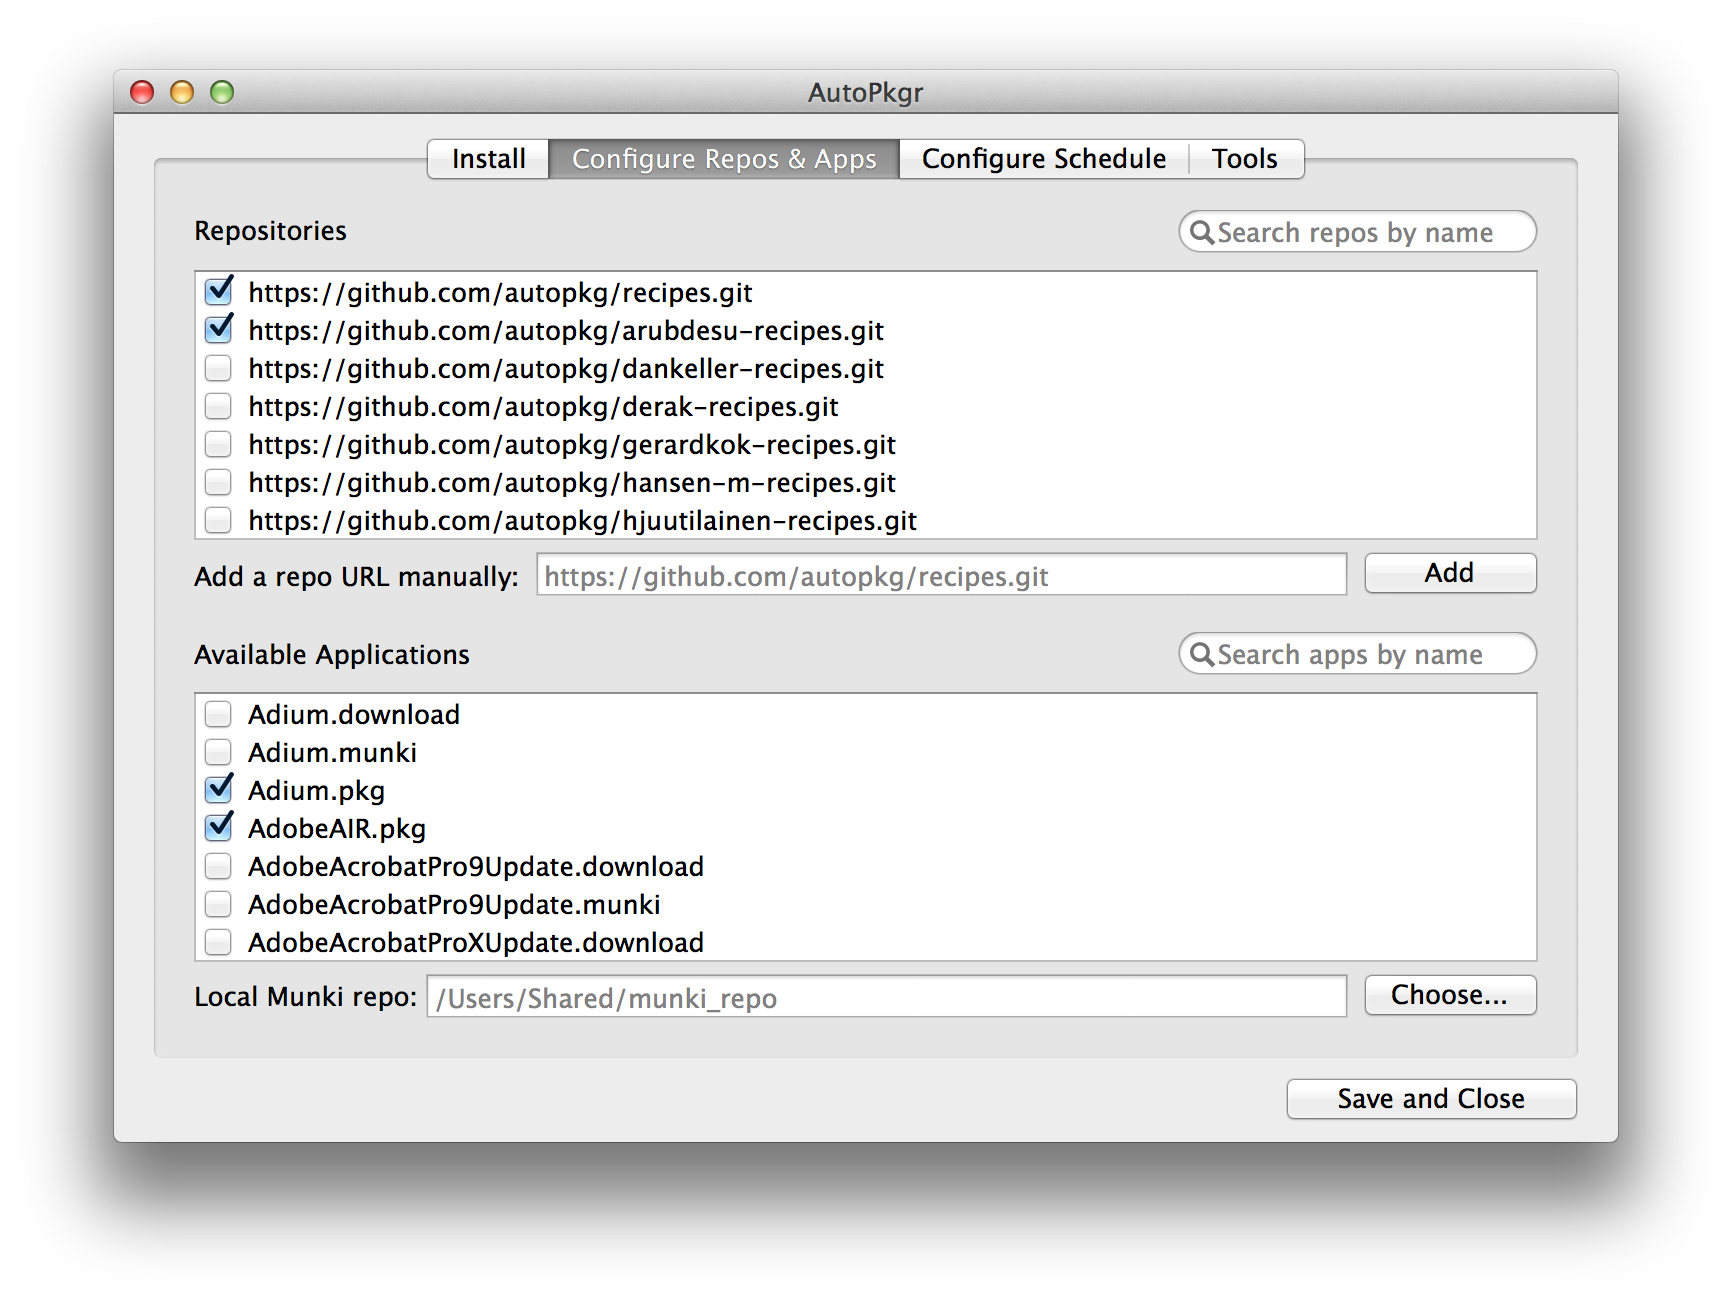
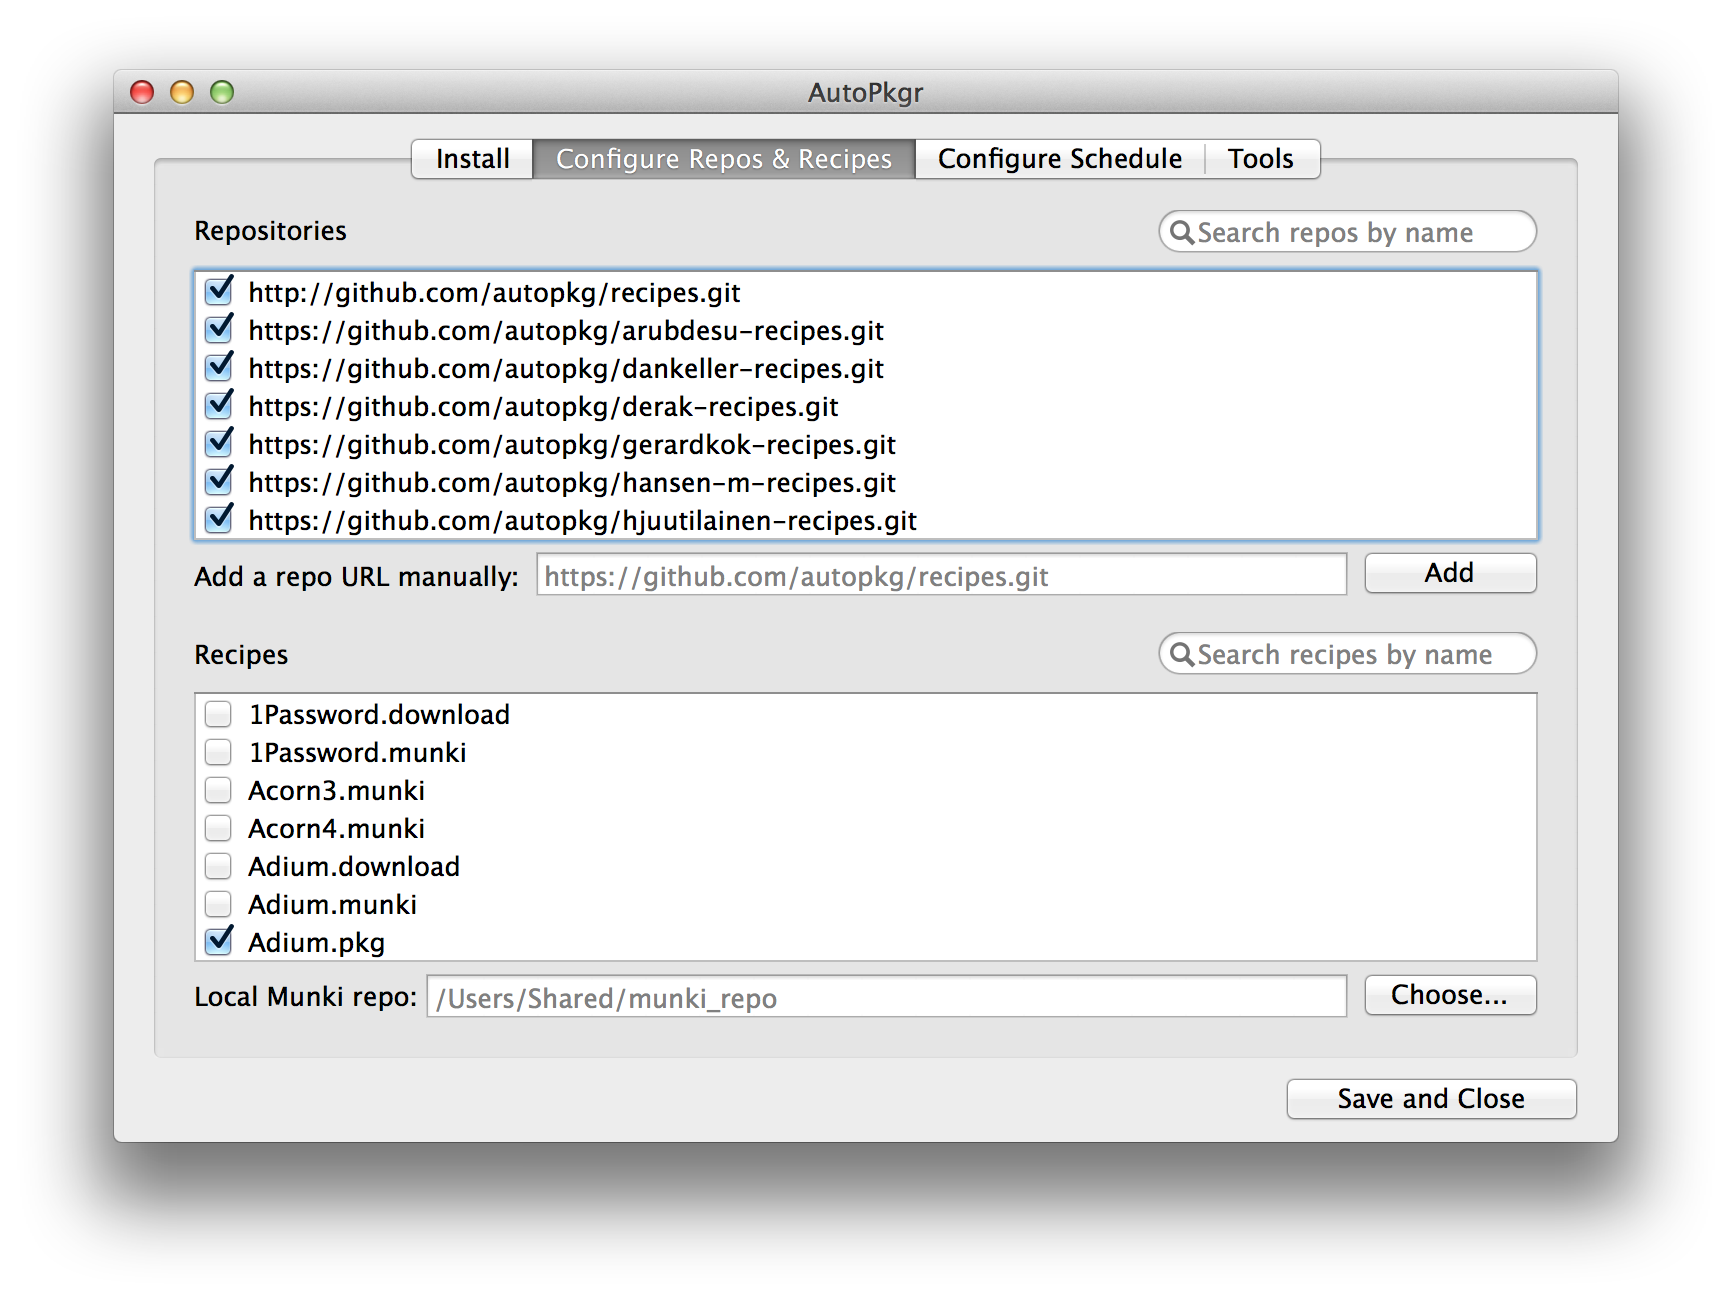
Replaced "apps" with "recipes" in several places.
Also fixed several typos and omissions in the readme.

diff --git a/README.html b/README.html
@@ -277,12 +277,13 @@ table.codehilitetable td.code div pre {
 <p>AutoPkgr is an app that makes it easy to install and configure <a href="https://github.com/autopkg/autopkg">AutoPkg</a>.</p>
 <p>AutoPkg is an awesomely powerful tool for automating OS X software packaging and distribution, but it requires its users to be comfortable with command-line tools and methods.</p>
 <p>If you&rsquo;re not comfortable with the command-line, or if you just want to get AutoPkg set up from scratch quickly, AutoPkgr is for you.</p>
+<h2 id="features"><a name="user-content-features" href="#features" class="headeranchor-link"  aria-hidden="true"><span class="headeranchor"></span></a>Features</h2>
 <p>Here are the tasks that AutoPkgr makes easier:</p>
 <ul>
 <li>Installation of AutoPkg itself.</li>
 <li>Installation of Git, which AutoPkg requires.</li>
-<li>Discovery and subscription to popular AutoPkg recipe repositories.</li>
-<li>Configuration of AutoPkg with a local <a href="https://code.google.com/p/munki/">Munki</a> repo.</li>
+<li>Discovery of and subscription to popular AutoPkg recipe repositories.</li>
+<li>Configuration of AutoPkg to use a local <a href="https://code.google.com/p/munki/">Munki</a> repo.</li>
 </ul>
 <p>AutoPkgr also lets you do all of the following, which wouldn&rsquo;t be possible using AutoPkg alone:</p>
 <ul>
@@ -292,28 +293,55 @@ table.codehilitetable td.code div pre {
 <li>One-click access to common folders that Munki and AutoPkg admins need.</li>
 </ul>
 <h2 id="installation"><a name="user-content-installation" href="#installation" class="headeranchor-link"  aria-hidden="true"><span class="headeranchor"></span></a>Installation</h2>
+<p>AutoPkgr requires Mac OS X 10.8 or higher.</p>
 <p>Download the <a href="https://github.com/lindegroup/autopkgr/releases/latest">latest release</a>, and drag the AutoPkgr app to your Applications folder. Then launch it.</p>
 <h2 id="usage"><a name="user-content-usage" href="#usage" class="headeranchor-link"  aria-hidden="true"><span class="headeranchor"></span></a>Usage</h2>
 <ol>
-<li>Launch the AutoPkgr app.</li>
-<li>On first launch, you&rsquo;ll see the configuration window:<br />
-<img alt="AutoPkgr Install" src="/Users/elliot/Documents/GitHub Repositories/autopkgr/doc-images/config_tab1.png" /></li>
-<li>Click the button to <strong>Install Git</strong> if needed.</li>
-<li>Click the button to <strong>Install AutoPkg</strong> if needed.</li>
-<li>Switch to the <strong>Configure Repos &amp; Apps</strong> tab and select the repositories you&rsquo;d like to subscribe to. We recommend the first one, to get you started.<br />
-<img alt="Configure Repos &amp; Apps" src="/Users/elliot/Documents/GitHub Repositories/autopkgr/doc-images/config_tab2.png" /></li>
-<li>Select the apps you&rsquo;d like to watch.</li>
-<li>If you&rsquo;re importing the apps into a Munki repo, put the repo path in the <strong>Local Munki Repo</strong> box.</li>
-<li>Switch to the <strong>Configure Schedule</strong> tab. Set your automatic update checking preferences — we recommend checking at least once per day, and checking for repo updates when AutoPkgr starts.<br />
-<img alt="Configure Schedule" src="/Users/elliot/Documents/GitHub Repositories/autopkgr/doc-images/config_tab3.png" /></li>
-<li>Configure email notifications, if desired.</li>
-<li>Click Save and Close.</li>
+<li>
+<p>Launch the AutoPkgr app.</p>
+</li>
+<li>
+<p>On first launch, you&rsquo;ll see the configuration window:<br />
+<img alt="AutoPkgr Install" src="/Users/elliot/Documents/GitHub/autopkgr/doc-images/config_tab1.png" /></p>
+</li>
+<li>
+<p>Click the button to <strong>Install Git</strong> if needed.</p>
+</li>
+<li>
+<p>Click the button to <strong>Install AutoPkg</strong> if needed.</p>
+</li>
+<li>
+<p>Switch to the <strong>Configure Repos &amp; Recipes</strong> tab.<br />
+<img alt="Configure Repos &amp; Recipes" src="/Users/elliot/Documents/GitHub/autopkgr/doc-images/config_tab2.png" /></p>
+</li>
+<li>
+<p>Select the repositories you&rsquo;d like to subscribe to. We recommend the first one, to get you started. You can also add repositories manually by pasting their URL into the text field and clicking Add.</p>
+</li>
+<li>
+<p>Select the recipes you&rsquo;d like to watch for changes.</p>
+</li>
+<li>
+<p>If you&rsquo;re importing the apps into a Munki repo, put the repo path in the <strong>Local Munki Repo</strong> box.</p>
+</li>
+<li>
+<p>Switch to the <strong>Configure Schedule</strong> tab.<br />
+<img alt="Configure Schedule" src="/Users/elliot/Documents/GitHub/autopkgr/doc-images/config_tab3.png" /></p>
+</li>
+<li>
+<p>Set your automatic update checking preferences — we recommend checking at least once per day, and checking for repo updates when AutoPkgr starts.</p>
+</li>
+<li>
+<p>Configure email notifications, if desired.</p>
+</li>
+<li>
+<p>Click <strong>Save and Close</strong>.</p>
+</li>
 </ol>
 <p>That&rsquo;s it! AutoPkgr will now check for the latest app updates you specified, and when an update is available you&rsquo;ll receive an email notification.</p>
-<p>Anytime you&rsquo;d like to make changes to AutoPkgr&rsquo;s configuration, just click on the AutoPkgr icon in the menu bar (<img alt="Menu bar icon" src="/Users/elliot/Documents/GitHub Repositories/autopkgr/doc-images/menulet.png" />), and choose <strong>Configure&hellip;</strong></p>
+<p>Anytime you&rsquo;d like to make changes to AutoPkgr&rsquo;s configuration, just click on the AutoPkgr icon in the menu bar (<img alt="Menu bar icon" src="/Users/elliot/Documents/GitHub/autopkgr/doc-images/menulet.png" />), and choose <strong>Configure&hellip;</strong></p>
 <p>You&rsquo;ll also find some useful shortcuts on the <strong>Tools</strong> tab, which will take you directly to several convenient folders.<br />
-<img alt="Tools" src="/Users/elliot/Documents/GitHub Repositories/autopkgr/doc-images/config_tab4.png" /></p>
+<img alt="Tools" src="/Users/elliot/Documents/GitHub/autopkgr/doc-images/config_tab4.png" /></p>
 <h2 id="credits"><a name="user-content-credits" href="#credits" class="headeranchor-link"  aria-hidden="true"><span class="headeranchor"></span></a>Credits</h2>
-<p>AutoPkgr was created by James Barclay, Elliot Jordan, Josh Senick of the <a href="http://www.lindegroup.com">Linde Group</a>.</p>
+<p>AutoPkgr was created by James Barclay, Elliot Jordan, and Josh Senick of the <a href="http://www.lindegroup.com">Linde Group</a>.</p>
 <p>We&rsquo;re very friendly. Stop by Berkeley sometime and have an espresso.</p>
 <p>Briefcase icon from <a href="http://fontawesome.io/">FontAwesome</a>.</p></body></html>

diff --git a/README.md b/README.md
@@ -9,12 +9,16 @@ AutoPkg is an awesomely powerful tool for automating OS X software packaging and
 
 If you're not comfortable with the command-line, or if you just want to get AutoPkg set up from scratch quickly, AutoPkgr is for you.
 
+
+Features
+--------
+
 Here are the tasks that AutoPkgr makes easier:
 
 * Installation of AutoPkg itself.
 * Installation of Git, which AutoPkg requires.
-* Discovery and subscription to popular AutoPkg recipe repositories.
-* Configuration of AutoPkg with a local [Munki](https://code.google.com/p/munki/) repo.
+* Discovery of and subscription to popular AutoPkg recipe repositories.
+* Configuration of AutoPkg to use a local [Munki](https://code.google.com/p/munki/) repo.
 
 AutoPkgr also lets you do all of the following, which wouldn't be possible using AutoPkg alone:
 
@@ -27,6 +31,8 @@ AutoPkgr also lets you do all of the following, which wouldn't be possible using
 Installation
 ------------
 
+AutoPkgr requires Mac OS X 10.8 or higher.
+
 Download the [latest release](https://github.com/lindegroup/autopkgr/releases/latest), and drag the AutoPkgr app to your Applications folder. Then launch it.
 
 
@@ -34,18 +40,31 @@ Usage
 -----
 
 1.  Launch the AutoPkgr app.
+
 1.  On first launch, you'll see the configuration window:
     ![AutoPkgr Install](doc-images/config_tab1.png)
+
 1.  Click the button to **Install Git** if needed.
+
 1.  Click the button to **Install AutoPkg** if needed.
-1.  Switch to the **Configure Repos & Apps** tab and select the repositories you'd like to subscribe to. We recommend the first one, to get you started.
-    ![Configure Repos & Apps](doc-images/config_tab2.png)
-1.  Select the apps you'd like to watch.
+
+1.  Switch to the **Configure Repos & Recipes** tab.
+    ![Configure Repos & Recipes](doc-images/config_tab2.png)
+
+1.  Select the repositories you'd like to subscribe to. We recommend the first one, to get you started. You can also add repositories manually by pasting their URL into the text field and clicking Add.
+
+1.  Select the recipes you'd like to watch for changes.
+
 1.  If you're importing the apps into a Munki repo, put the repo path in the **Local Munki Repo** box.
-1.  Switch to the **Configure Schedule** tab. Set your automatic update checking preferences — we recommend checking at least once per day, and checking for repo updates when AutoPkgr starts.
+
+1.  Switch to the **Configure Schedule** tab.
     ![Configure Schedule](doc-images/config_tab3.png)
+
+1.  Set your automatic update checking preferences — we recommend checking at least once per day, and checking for repo updates when AutoPkgr starts.
+
 1.  Configure email notifications, if desired.
-1.  Click Save and Close.
+
+1.  Click **Save and Close**.
 
 That's it! AutoPkgr will now check for the latest app updates you specified, and when an update is available you'll receive an email notification.
 
@@ -58,7 +77,7 @@ You'll also find some useful shortcuts on the **Tools** tab, which will take you
 Credits
 -------
 
-AutoPkgr was created by James Barclay, Elliot Jordan, Josh Senick of the [Linde Group](http://www.lindegroup.com).
+AutoPkgr was created by James Barclay, Elliot Jordan, and Josh Senick of the [Linde Group](http://www.lindegroup.com).
 
 We're very friendly. Stop by Berkeley sometime and have an espresso.
 
